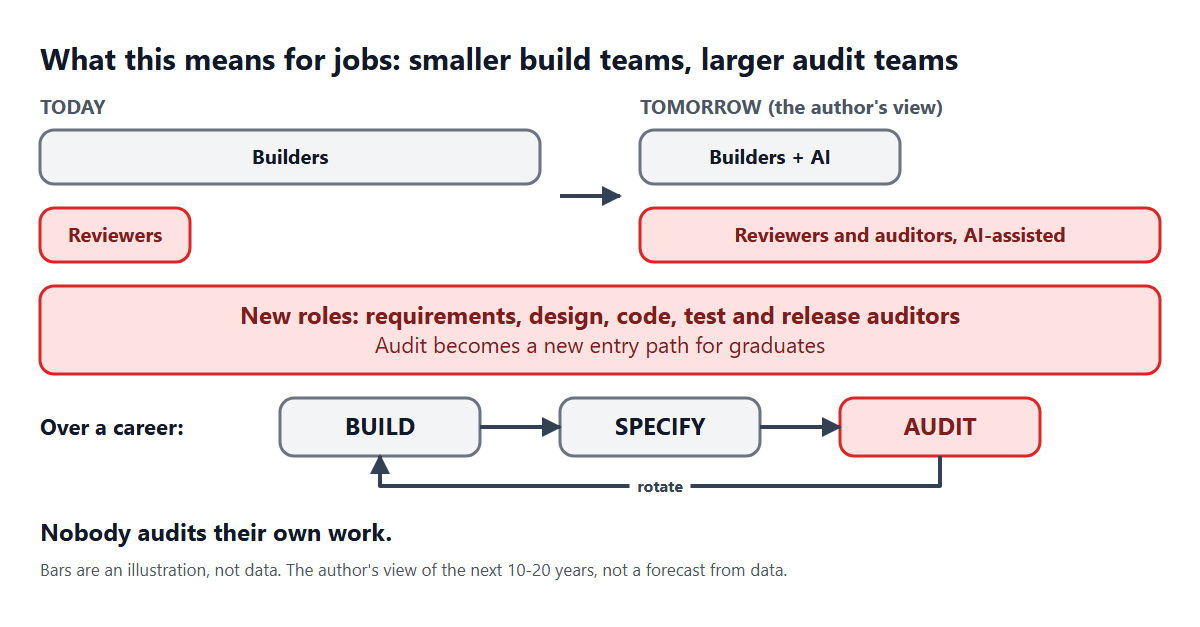
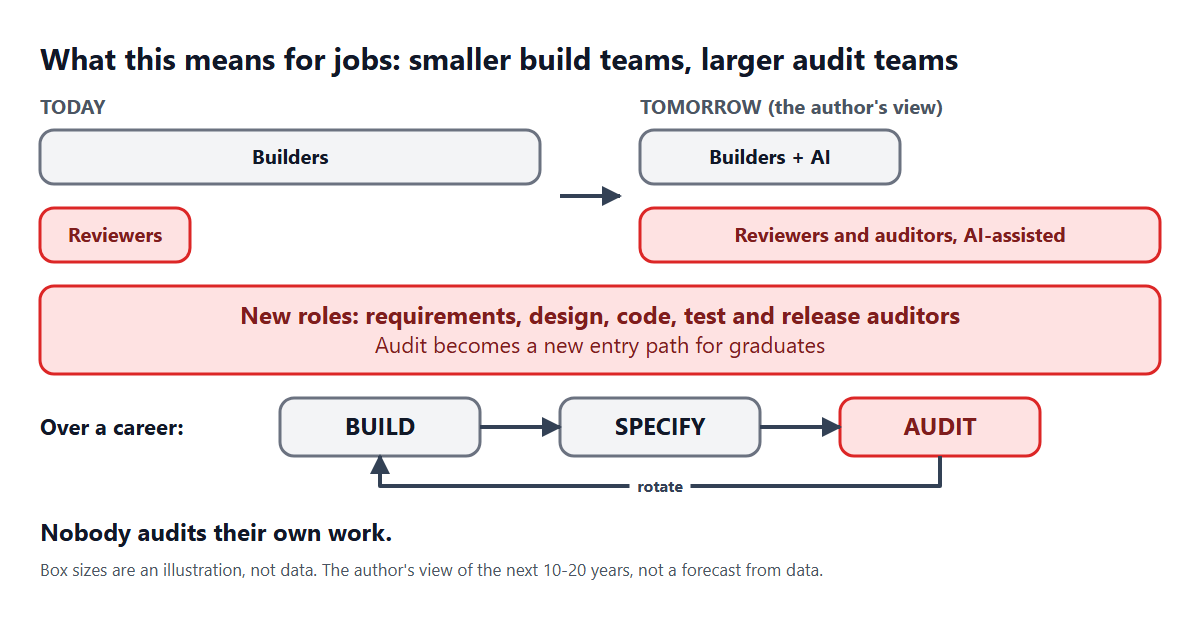
Diagram 11: footnote says "Box sizes", not "Bars" (#5)

Changed region(s): [[0.0308, 0.8788, 0.6783, 0.9394]]

diff --git a/diagrams/README.md b/diagrams/README.md
@@ -36,6 +36,6 @@ Notes:
   and external audit report up to the governing body. **06** uses the IV&V terms technical, managerial and financial
   independence.
 - **12** is a UML-style sequence diagram for engineers; SPEC.md Appendix A has the same diagram in Mermaid.
-- **11** is the author's view of the next 10-20 years, not a forecast from data. Its bar lengths are an illustration.
+- **11** is the author's view of the next 10-20 years, not a forecast from data. Its box sizes are an illustration.
 - The `.drawio` files are the light versions. The exports were rendered from the same layout, so they match. If you
   open a `.drawio` file in draw.io and re-export, small text spacing differences are normal.
